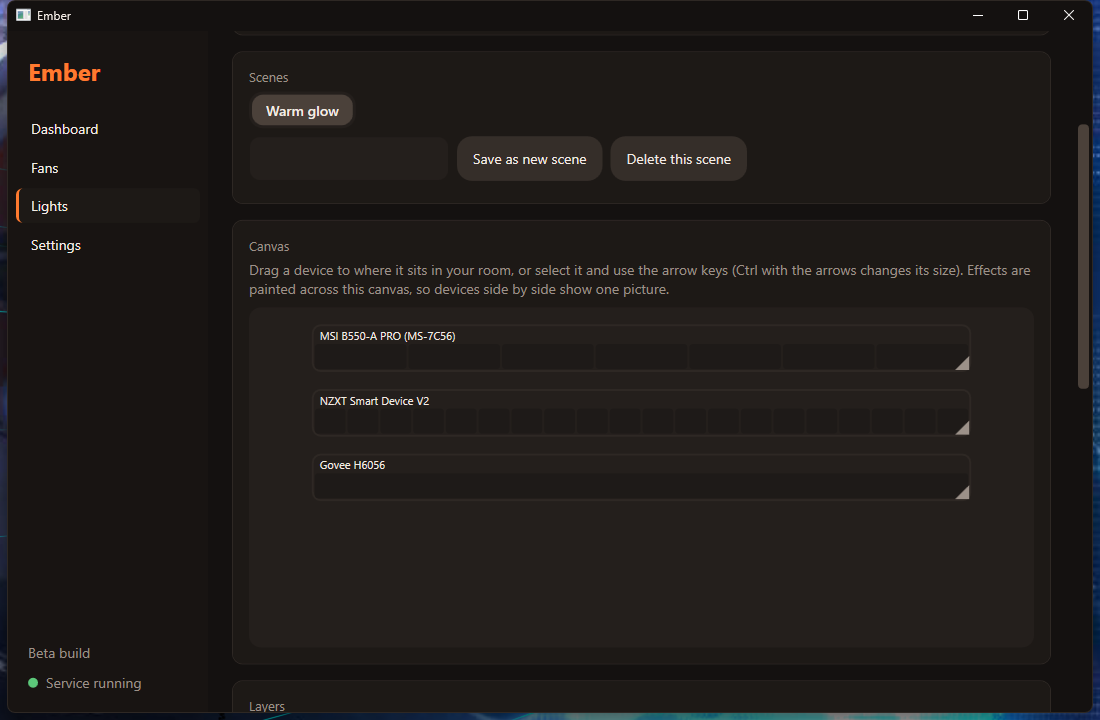
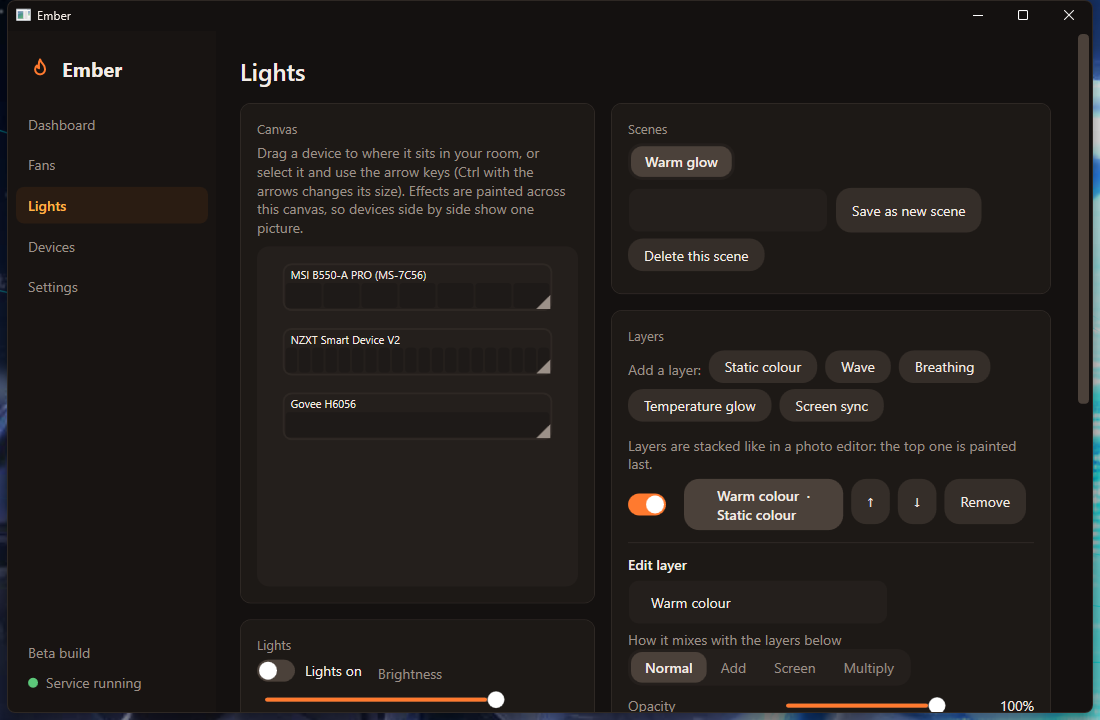
UI: Fans two-column layout, Lights canvas and side panels, Settings section list

diff --git a/src/Ember.App/MainWindow.xaml b/src/Ember.App/MainWindow.xaml
@@ -1,4 +1,4 @@
-<Window x:Class="Ember.App.MainWindow"
+<Window x:Class="Ember.App.MainWindow"
         xmlns="http://schemas.microsoft.com/winfx/2006/xaml/presentation"
         xmlns:x="http://schemas.microsoft.com/winfx/2006/xaml"
         xmlns:d="http://schemas.microsoft.com/expression/blend/2008"
@@ -177,10 +177,36 @@
                     <TextBlock Text="{Binding FansPage.SafetyNote}" TextWrapping="Wrap" AutomationProperties.LiveSetting="Assertive" />
                 </Border>
 
-                <Border BorderBrush="#5a4a3e" BorderThickness="1" CornerRadius="12" Padding="16,12" Margin="0,0,0,16">
-                    <TextBlock Foreground="#c7b8aa" TextWrapping="Wrap" FontSize="13"
-                               Text="Safety: every controlled fan goes to 100% at 90 °C, a lost sensor sends fans to 100%, and Ember leaves them at a safe speed if it stops." />
-                </Border>
+                <Grid Margin="0,0,0,16">
+                    <Grid.ColumnDefinitions>
+                        <ColumnDefinition Width="250" />
+                        <ColumnDefinition Width="*" />
+                    </Grid.ColumnDefinitions>
+                    <StackPanel Grid.Column="0" Margin="0,0,16,0">
+                        <Border Background="#2a1c12" BorderBrush="{StaticResource AccentBrush}" BorderThickness="1" CornerRadius="12" Padding="16,14" Margin="0,0,0,10">
+                            <StackPanel>
+                                <DockPanel>
+                                    <TextBlock DockPanel.Dock="Right" Text="{Binding CpuFanText}" Foreground="#ffb347" />
+                                    <TextBlock Text="CPU fan" FontWeight="SemiBold" />
+                                </DockPanel>
+                                <TextBlock Text="Follows the CPU temperature" Foreground="{StaticResource MutedBrush}" FontSize="12" Margin="0,4,0,0" />
+                            </StackPanel>
+                        </Border>
+                        <Border Background="{StaticResource PanelBrush}" BorderBrush="{StaticResource PanelBorderBrush}" BorderThickness="1" CornerRadius="12" Padding="16,14" Margin="0,0,0,10">
+                            <StackPanel>
+                                <DockPanel>
+                                    <TextBlock DockPanel.Dock="Right" Text="{Binding SystemFanText}" Foreground="{StaticResource MutedBrush}" />
+                                    <TextBlock Text="System fans" FontWeight="SemiBold" />
+                                </DockPanel>
+                                <TextBlock Text="Follow the case temperature" Foreground="{StaticResource MutedBrush}" FontSize="12" Margin="0,4,0,0" />
+                            </StackPanel>
+                        </Border>
+                        <Border BorderBrush="#5a4a3e" BorderThickness="1" CornerRadius="12" Padding="16,14">
+                            <TextBlock Foreground="#c7b8aa" TextWrapping="Wrap" FontSize="13"
+                                       Text="Safety: every controlled fan goes to 100% at 90 &#176;C, a lost sensor sends fans to 100%, and Ember leaves them at a safe speed if it stops." />
+                        </Border>
+                    </StackPanel>
+                    <StackPanel Grid.Column="1">
 
                 <GroupBox Header="Mode" Style="{StaticResource Panel}" Margin="0,0,0,16" AutomationProperties.Name="Fan mode">
                     <StackPanel>
@@ -207,6 +233,8 @@
                 <GroupBox Header="Fan curve" Style="{StaticResource Panel}" Margin="0,0,0,16" AutomationProperties.Name="Fan curve">
                     <local:CurveEditor x:Name="Curve" />
                 </GroupBox>
+                    </StackPanel>
+                </Grid>
 
                 <GroupBox Header="Games" Style="{StaticResource Panel}" Margin="0,0,0,16" AutomationProperties.Name="Games"
                           Visibility="{Binding BetaGamesVisibility}">
@@ -298,11 +326,19 @@
         <!-- Settings -->
         <ScrollViewer x:Name="SettingsPageView" Grid.Column="1" VerticalScrollBarVisibility="Auto" Focusable="False"
                       Visibility="Collapsed">
-            <StackPanel Margin="24" MaxWidth="720" HorizontalAlignment="Left">
+            <Grid Margin="24">
+              <Grid.ColumnDefinitions><ColumnDefinition Width="170" /><ColumnDefinition Width="*" /></Grid.ColumnDefinitions>
+              <StackPanel Grid.Column="0" Margin="0,48,16,0">
+                <RadioButton x:Name="SetGeneral" GroupName="SettingsNav" Content="General" Tag="general" IsChecked="True" Style="{StaticResource NavItem}" Margin="0,0,0,4" Checked="OnSettingsSection" />
+                <RadioButton GroupName="SettingsNav" Content="Fan control" Tag="fan" Style="{StaticResource NavItem}" Margin="0,0,0,4" Checked="OnSettingsSection" />
+                <RadioButton GroupName="SettingsNav" Content="Lighting" Tag="lights" Style="{StaticResource NavItem}" Margin="0,0,0,4" Checked="OnSettingsSection" />
+                <RadioButton GroupName="SettingsNav" Content="About" Tag="about" Style="{StaticResource NavItem}" Margin="0,0,0,4" Checked="OnSettingsSection" />
+              </StackPanel>
+              <StackPanel x:Name="SettingsSections" Grid.Column="1" MaxWidth="720" HorizontalAlignment="Left">
                 <TextBlock Text="Settings" FontSize="22" FontWeight="SemiBold" Margin="0,0,0,16"
                            AutomationProperties.HeadingLevel="Level2" />
 
-                <GroupBox Header="Temperature unit" Style="{StaticResource Panel}" Margin="0,0,0,16" AutomationProperties.Name="Temperature unit">
+                <GroupBox Tag="general" Header="Temperature unit" Style="{StaticResource Panel}" Margin="0,0,0,16" AutomationProperties.Name="Temperature unit">
                     <StackPanel>
                         <Border Style="{StaticResource SegmentTrack}">
                             <StackPanel Orientation="Horizontal">
@@ -317,7 +353,7 @@
                     </StackPanel>
                 </GroupBox>
 
-                <GroupBox Header="When Ember opens" Style="{StaticResource Panel}" Margin="0,0,0,16" AutomationProperties.Name="When Ember opens">
+                <GroupBox Tag="general" Header="When Ember opens" Style="{StaticResource Panel}" Margin="0,0,0,16" AutomationProperties.Name="When Ember opens">
                     <StackPanel>
                         <Border Style="{StaticResource SegmentTrack}">
                             <StackPanel Orientation="Horizontal">
@@ -334,7 +370,7 @@
                     </StackPanel>
                 </GroupBox>
 
-                <GroupBox Header="Fan control" Style="{StaticResource Panel}" Margin="0,0,0,16" AutomationProperties.Name="Fan control">
+                <GroupBox Tag="fan" Header="Fan control" Style="{StaticResource Panel}" Margin="0,0,0,16" AutomationProperties.Name="Fan control">
                     <StackPanel>
                         <TextBlock TextWrapping="Wrap" Text="{Binding ConnectionText}" />
                         <TextBlock Foreground="{StaticResource MutedBrush}" TextWrapping="Wrap" Margin="0,8,0,0"
@@ -348,7 +384,7 @@
                     </StackPanel>
                 </GroupBox>
 
-                <GroupBox Header="Experimental" Style="{StaticResource Panel}" Margin="0,0,0,16" AutomationProperties.Name="Experimental features"
+                <StackPanel Tag="fan"><GroupBox Header="Experimental" Style="{StaticResource Panel}" Margin="0,0,0,16" AutomationProperties.Name="Experimental features"
                           Visibility="{Binding ExperimentalAvailableVisibility}">
                     <StackPanel>
                         <CheckBox x:Name="ExperimentalSwitch" Content="Turn on experimental features" Click="OnExperimentalToggled"
@@ -356,9 +392,9 @@
                         <TextBlock Foreground="{StaticResource MutedBrush}" TextWrapping="Wrap" Margin="0,8,0,0"
                                    Text="Game detection switches the fan mode to your game mode while a full-screen program keeps the GPU busy, and lets you mark programs as not a game. GPU fan control lets Ember drive the graphics card fan once you have tested it. Both are still being proven on real hardware, so they are off until you turn them on. Turning this off ends any game mode and hands the GPU fan back to the card." />
                     </StackPanel>
-                </GroupBox>
+                </GroupBox></StackPanel>
 
-                <GroupBox Header="Govee" Style="{StaticResource Panel}" Margin="0,0,0,16" AutomationProperties.Name="Govee lamps">
+                <GroupBox Tag="lights" Header="Govee" Style="{StaticResource Panel}" Margin="0,0,0,16" AutomationProperties.Name="Govee lamps">
                     <StackPanel>
                         <TextBlock Foreground="{StaticResource MutedBrush}" TextWrapping="Wrap"
                                    Text="Lamps are found on your network when LAN control is switched on for them in the Govee app. An API key is only needed for lamps that cannot do that; they are reached through Govee's cloud and follow slow changes only." />
@@ -373,7 +409,7 @@
                                    AutomationProperties.LiveSetting="Polite" />
                     </StackPanel>
                 </GroupBox>
-                <GroupBox Header="About" Style="{StaticResource Panel}" AutomationProperties.Name="About Ember">
+                <GroupBox Tag="about" Header="About" Style="{StaticResource Panel}" AutomationProperties.Name="About Ember">
                     <StackPanel>
                         <TextBlock Text="{Binding BuildLabel}" FontWeight="SemiBold" />
                         <TextBlock Foreground="{StaticResource MutedBrush}" TextWrapping="Wrap" Margin="0,4,0,0"
@@ -383,6 +419,7 @@
                     </StackPanel>
                 </GroupBox>
             </StackPanel>
+            </Grid>
         </ScrollViewer>
     </Grid>
 </Window>

diff --git a/src/Ember.App/LightsPage.cs b/src/Ember.App/LightsPage.cs
@@ -43,7 +43,7 @@ public sealed class LightsPage : UserControl
     {
         Content = _root;
         Focusable = false;
-        _root.Children.Add(new TextBlock { Text = "Lights", FontSize = 22, FontWeight = FontWeights.SemiBold, Margin = new Thickness(0, 0, 0, 16) });
+        _root.Children.Add(new TextBlock { Text = "Lights", FontSize = 24, FontWeight = FontWeights.SemiBold, Margin = new Thickness(0, 0, 0, 16) });
         AutomationProperties.SetHeadingLevel(_root.Children[0], AutomationHeadingLevel.Level2);
     }
 
@@ -74,7 +74,7 @@ public sealed class LightsPage : UserControl
         top.Children.Add(row);
         top.Children.Add(Text("Lights start switched off, so Ember never takes over a device until you ask. Turning them off sends one dark frame; closing Ember leaves them as they are.", muted: true));
         top.Children.Add(_status);
-        _root.Children.Add(Panel("Lights", top));
+        var pLights = Panel("Lights", top);
 
         var sceneBox = new StackPanel();
         sceneBox.Children.Add(_scenes);
@@ -85,14 +85,14 @@ public sealed class LightsPage : UserControl
         save.Children.Add(Pill("Save as new scene", SaveScene));
         save.Children.Add(Pill("Delete this scene", () => { m.DeleteScene(m.State.CurrentScene); }));
         sceneBox.Children.Add(save);
-        _root.Children.Add(Panel("Scenes", sceneBox));
+        var pScenes = Panel("Scenes", sceneBox);
 
         var canvasBox = new StackPanel();
         canvasBox.Children.Add(Text("Drag a device to where it sits in your room, or select it and use the arrow keys (Ctrl with the arrows changes its size). Effects are painted across this canvas, so devices side by side show one picture.", muted: true));
         var frame = new Border { Background = Res("TrackBrush"), CornerRadius = new CornerRadius(12), Margin = new Thickness(0, 10, 0, 0), Child = _canvas, Padding = new Thickness(0) };
         _canvas.SizeChanged += (_, _) => LayoutVisuals();
         canvasBox.Children.Add(frame);
-        _root.Children.Add(Panel("Canvas", canvasBox));
+        var pCanvas = Panel("Canvas", canvasBox);
 
         var layerBox = new StackPanel();
         var add = new WrapPanel { Margin = new Thickness(0, 0, 0, 8) };
@@ -107,7 +107,17 @@ public sealed class LightsPage : UserControl
         layerBox.Children.Add(Text("Layers are stacked like in a photo editor: the top one is painted last.", muted: true));
         layerBox.Children.Add(_layers);
         layerBox.Children.Add(_editor);
-        _root.Children.Add(Panel("Layers", layerBox));
+        var pLayers = Panel("Layers", layerBox);
+        var cols = new Grid { Margin = new Thickness(0, 0, 0, 0) };
+        cols.ColumnDefinitions.Add(new ColumnDefinition { Width = new GridLength(1, GridUnitType.Star) });
+        cols.ColumnDefinitions.Add(new ColumnDefinition { Width = new GridLength(440) });
+        var left = new StackPanel { Margin = new Thickness(0, 0, 16, 0) };
+        left.Children.Add(pCanvas); left.Children.Add(pLights);
+        var right = new StackPanel();
+        right.Children.Add(pScenes); right.Children.Add(pLayers);
+        Grid.SetColumn(right, 1);
+        cols.Children.Add(left); cols.Children.Add(right);
+        _root.Children.Add(cols);
 
         _root.Children.Add(Panel("Devices", BuildDevicesBox()));
     }

diff --git a/src/Ember.App/MainViewModel.cs b/src/Ember.App/MainViewModel.cs
@@ -70,6 +70,8 @@ public sealed class MainViewModel : INotifyPropertyChanged
     public Visibility ExperimentalAvailableVisibility => BuildFeatures.Current.GameDetection || BuildFeatures.Current.GpuFan ? Visibility.Visible : Visibility.Collapsed;
     public Visibility BetaGpuVisibility => BuildFeatures.Current.GpuFan && _fansPage.Experimental ? Visibility.Visible : Visibility.Collapsed;
     public string ModeChipText => "Mode: " + FansViewState.Label(_fansPage.Mode);
+    public string CpuFanText => Fans.FirstOrDefault(f => f.Name.StartsWith("CPU Fan", StringComparison.OrdinalIgnoreCase))?.RpmText ?? "—";
+    public string SystemFanText { get { var s = Fans.Where(f => f.Name.StartsWith("System Fan", StringComparison.OrdinalIgnoreCase) && f.Fraction > 0).ToList(); return s.Count == 0 ? "—" : s.Count + (s.Count == 1 ? " fan" : " fans") + " spinning"; } }
     public string BuildLabel => BuildFeatures.Channel == "beta" ? "Beta build" : "Alpha build";
     public Visibility DetectedGameVisibility => _fansPage.DetectedGame is null ? Visibility.Collapsed : Visibility.Visible;
     public Visibility NotGamesVisibility => _fansPage.NotGames is { Count: > 0 } ? Visibility.Visible : Visibility.Collapsed;

diff --git a/src/Ember.App/MainWindow.xaml.cs b/src/Ember.App/MainWindow.xaml.cs
@@ -67,6 +67,7 @@ public partial class MainWindow : Window
         if (BuildFeatures.Current.GameDetection) _gameTimer.Start(); // beta feature: off in the alpha build
 
         StartupSwitch.IsChecked = StartupRegistration.IsEnabled();
+        OnSettingsSection(SetGeneral, new RoutedEventArgs());
         if (_vm.Prefs.StartPage == StartPage.Fans) NavFans.IsChecked = true;
         Curve.Committed += OnCurveCommitted;
         Curve.CopyRequested += OnCurveCopy;
@@ -231,6 +232,13 @@ public partial class MainWindow : Window
     async void OnUndoNotAGame(object sender, RoutedEventArgs e)
     {
         if (sender is FrameworkElement { Tag: string exe }) await SendAsync(new SetNotGame(exe, false));
+    }
+
+    void OnSettingsSection(object sender, RoutedEventArgs e)
+    {
+        if (SettingsSections is null || sender is not FrameworkElement { Tag: string section }) return;
+        foreach (var child in SettingsSections.Children.OfType<FrameworkElement>())
+            if (child.Tag is string t) child.Visibility = t == section ? Visibility.Visible : Visibility.Collapsed;
     }
 
     void OnNavChanged(object sender, RoutedEventArgs e)
